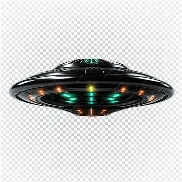
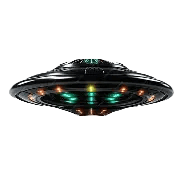
Implemented player control and scaled background to screen size

diff --git a/Game1.cs b/Game1.cs
@@ -10,13 +10,20 @@ public class Game1 : Game
     private GraphicsDeviceManager _graphics;
     private SpriteBatch _spriteBatch;
 
-    private Texture2D _spaceStation;
-    private Texture2D _ship;
+    private Texture2D _background;
+    private Texture2D _ufo;
 
     private SpriteFont _arial;
-    private string _output = "This is the string I want to output";
+    private string _message = "This is the string I want to output";
 
     private SimpleAnimation _walkingAnimation;
+    private SimpleAnimation _shootingAnimation;
+
+    private KeyboardState _kbPreviousState;
+    Vector2 _PlayersInput;
+    Vector2 ShipLocation = new Vector2(300, 200);
+    private SpriteEffects _facing = SpriteEffects.None;
+
 
     public Game1()
     {
@@ -27,35 +34,69 @@ public class Game1 : Game
 
     protected override void Initialize()
     {
-        _graphics.PreferredBackBufferWidth = 640;
-        _graphics.PreferredBackBufferHeight = 320;
+        // TODO: Add your initialization logic here
+        _graphics.PreferredBackBufferWidth = 800;
+        _graphics.PreferredBackBufferHeight = 500;
         _graphics.ApplyChanges();
+
+        _PlayersInput = new Vector2(400, 300);
 
         base.Initialize();
     }
 
     protected override void LoadContent()
     {
+        // TODO: use this.Content to load your game content here
         _spriteBatch = new SpriteBatch(GraphicsDevice);
 
-        _spaceStation = Content.Load<Texture2D>("Background");
-        _ship = Content.Load<Texture2D>("UFO");
+        _background = Content.Load<Texture2D>("Background");
+        _ufo = Content.Load<Texture2D>("UFO");
 
         _arial = Content.Load<SpriteFont>("Arial");
 
-        // Assign the width based off the per frame width
         _walkingAnimation = new SimpleAnimation(
             Content.Load<Texture2D>("Walking"),
-            1000/12,
-            179,
+            1529 / 8,
+            167,
             8,
+            8
+        );
+
+        _shootingAnimation = new SimpleAnimation(
+            Content.Load<Texture2D>("Shooting"),
+            760 / 4,
+            147,
+            4,
             8
         );
     }
 
     protected override void Update(GameTime gameTime)
     {
+        // TODO: Add your update logic here
         _walkingAnimation.Update(gameTime);
+        _shootingAnimation.Update(gameTime);
+
+        KeyboardState kbCurrentState = Keyboard.GetState();
+        _message = "";
+        _PlayersInput = Vector2.Zero;
+
+        if (kbCurrentState.IsKeyDown(Keys.Left))
+        {
+            _PlayersInput += new Vector2(-1, 0);
+            _facing = SpriteEffects.FlipHorizontally;
+            _message += "Left ";
+        }
+        if (kbCurrentState.IsKeyDown(Keys.Right))
+        {
+            _PlayersInput += new Vector2(1, 0);
+            _facing = SpriteEffects.None;
+            _message += "Right ";
+        }
+
+        ShipLocation += _PlayersInput * 10;
+
+        _kbPreviousState = kbCurrentState;
 
         base.Update(gameTime);
     }
@@ -64,19 +105,22 @@ public class Game1 : Game
     {
         GraphicsDevice.Clear(Color.CornflowerBlue);
 
+        // TODO: Add your drawing code here
+
         _spriteBatch.Begin();
 
         // background
-        _spriteBatch.Draw(_spaceStation, Vector2.Zero, Color.White);
+        _spriteBatch.Draw(_background, Vector2.Zero, Color.White);
 
         // static sprite
-        _spriteBatch.Draw(_ship, new Vector2(300, 140), Color.White);
+        _spriteBatch.Draw(_ufo, new Vector2(300, 140), Color.White);
 
         // text
-        _spriteBatch.DrawString(_arial, _output, new Vector2(20, 20), Color.White);
+        _spriteBatch.DrawString(_arial, _message, new Vector2(20, 20), Color.Red);
 
         // animation
-        _walkingAnimation.Draw(_spriteBatch, new Vector2(100, 200), SpriteEffects.None);
+        _walkingAnimation.Draw(_spriteBatch, ShipLocation, _facing);
+        _shootingAnimation.Draw(_spriteBatch, new Vector2(50, 50), SpriteEffects.None);
 
         _spriteBatch.End();
 
